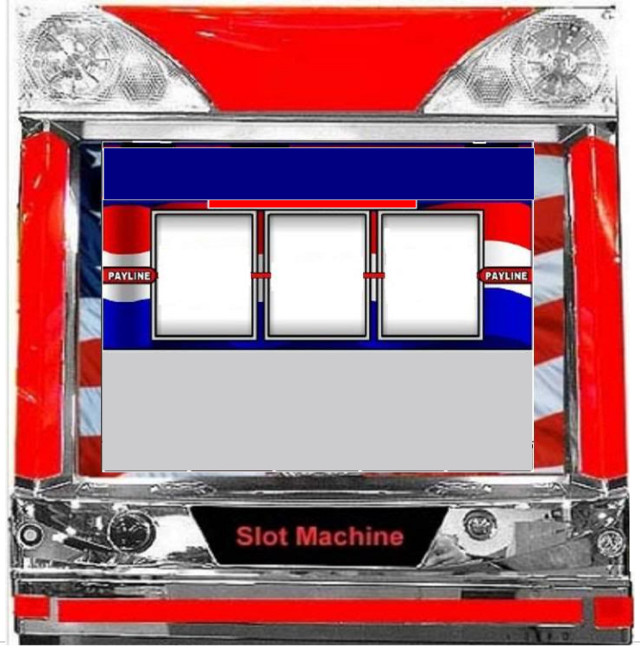
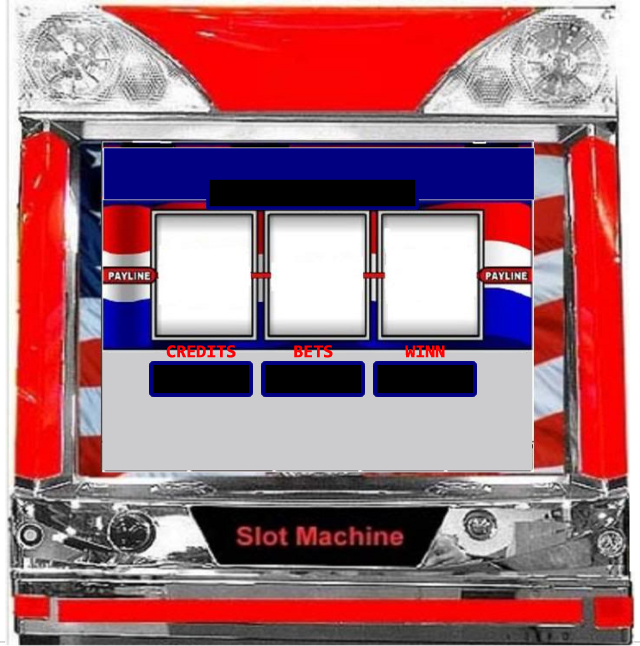
Added the score labels

diff --git a/Scripts/scenes/gameScene.ts b/Scripts/scenes/gameScene.ts
@@ -10,6 +10,15 @@ module scenes {
         private _bet100: objects.Button;
         private _spin: objects.Button;
         private _reels: createjs.Bitmap[];
+        private _jackpotText: objects.Label;
+        private _creditsText: objects.Label;
+        private _betText: objects.Label;
+        private _resultText: objects.Label;
+        private playerMoney: number;
+        private winnings: number;
+        private jackpot: number;
+        private playerBet: number;
+
 
         private _apple = 0;
         private _banana = 0;
@@ -25,6 +34,9 @@ module scenes {
         }
 
         public start(): void {
+
+            this._resetAll();
+
             this._level1Image = new createjs.Bitmap(assets.getResult("SlotMachine"));
             this.addChild(this._level1Image);
             
@@ -50,6 +62,42 @@ module scenes {
             this.addChild(this._spin);
             this._spin.on("click", this._spinButtonClick, this);
             
+            // add JackPot Text to the scene
+            this._jackpotText = new objects.Label(
+                this.jackpot.toString(),
+                "27px Consolas",
+                "#FFFFFF",
+                330, 184, false);
+            this._jackpotText.textAlign = "right";
+            this.addChild(this._jackpotText);
+        
+            // add Credits Text to the scene
+            this._creditsText = new objects.Label(
+                this.playerMoney.toString(),
+                "27px Consolas",
+                "#FFFFFF",
+                220, 369, false);
+            this._creditsText.textAlign = "right";
+            this.addChild(this._creditsText);
+            
+            // add Bet Text to the scene
+            this._betText = new objects.Label(
+                this.playerBet.toString(),
+                "27px Consolas",
+                "#FFFFFF",
+                320, 369, false);
+            this._betText.textAlign = "right";
+            this.addChild(this._betText);
+            
+            // add Result Text to the scene
+            this._resultText = new objects.Label(
+                this.winnings.toString(),
+                "27px Consolas",
+                "#FFFFFF",
+                433, 369, false);
+            this._resultText.textAlign = "right";
+            this.addChild(this._resultText);
+            
             // Call the Initialize Array of Bitmaps 
             this._initializeBitmapArray();
 
@@ -67,6 +115,14 @@ module scenes {
         /* Utility function to check if a value falls within a range of bounds */
         private _checkRange(value: number, lowerBounds: number, upperBounds: number): number {
             return (value >= lowerBounds && value <= upperBounds) ? value : -1;
+        }
+        
+        // Resets the Bet, Credits, Jackpots and Winning
+        private _resetAll() {
+            this.playerMoney = 1000;
+            this.winnings = 0;
+            this.jackpot = 5000;
+            this.playerBet = 0;
         }
         
         /* When this function is called it determines the betLine results.
@@ -127,6 +183,17 @@ module scenes {
             }
         }
         
+        // Set the Bet for the player
+        private _playerBet(playerBet: number) {
+            // ensure player's bet is less than or equal to players money
+            if (playerBet <= this.playerMoney) {
+                this.playerBet += playerBet;
+                this.playerMoney -= playerBet;
+                this._creditsText.text = this.playerMoney.toString();
+                this._betText.text = this.playerBet.toString();
+            }
+        }
+        
         // Handuler Methods
         
         // Bet1 Button click Handuler
@@ -134,30 +201,35 @@ module scenes {
             // Change the scenes
             // scene = config.Scene.LEVEL21;
             // changeScene();
+            this._playerBet(1);
         }
         
         // Bet10 button click Handuler
         private _bet10ButtonClick(event: createjs.MouseEvent): void {
-            // Change the Scene
-            // scene = config.Scene.LEVEL22;
-            // changeScene();
+
+            this._playerBet(10);
         }
 
         // Bet100 Button click Handuler
         private _bet100ButtonClick(event: createjs.MouseEvent): void {
-            // Change to Menu Scene
-            scene = config.Scene.MENU;
-            console.log("Change to menu scene");
-            changeScene();
+
+            this._playerBet(100);
         }
         
         // Spin Button click Handuler
         private _spinButtonClick(event: createjs.MouseEvent): void {
+            
+            // Spins only if the player has credits
+            if (this.playerBet > 0) {
+                var bitmap: string[] = this._spinReels();
 
-            var bitmap: string[] = this._spinReels();
-
-            for (var reel: number = 0; reel < 3; reel++) {
-                this._reels[reel].image = assets.getResult(bitmap[reel]);
+                for (var reel: number = 0; reel < 3; reel++) {
+                    this._reels[reel].image = assets.getResult(bitmap[reel]);
+                }
+            
+                // reset player's bet to zero
+                this.playerBet = 0;
+                this._betText.text = this.playerBet.toString()
             }
         }
 

diff --git a/Scripts/scenes/gameScene.js b/Scripts/scenes/gameScene.js
@@ -20,6 +20,7 @@ var scenes;
             this._blanks = 0;
         }
         GameScene.prototype.start = function () {
+            this._resetAll();
             this._level1Image = new createjs.Bitmap(assets.getResult("SlotMachine"));
             this.addChild(this._level1Image);
             // added the Bet1 button
@@ -38,6 +39,22 @@ var scenes;
             this._spin = new objects.Button("spin", 442, 400, false);
             this.addChild(this._spin);
             this._spin.on("click", this._spinButtonClick, this);
+            // add JackPot Text to the scene
+            this._jackpotText = new objects.Label(this.jackpot.toString(), "27px Consolas", "#FFFFFF", 330, 184, false);
+            this._jackpotText.textAlign = "right";
+            this.addChild(this._jackpotText);
+            // add Credits Text to the scene
+            this._creditsText = new objects.Label(this.playerMoney.toString(), "27px Consolas", "#FFFFFF", 220, 369, false);
+            this._creditsText.textAlign = "right";
+            this.addChild(this._creditsText);
+            // add Bet Text to the scene
+            this._betText = new objects.Label(this.playerBet.toString(), "27px Consolas", "#FFFFFF", 320, 369, false);
+            this._betText.textAlign = "right";
+            this.addChild(this._betText);
+            // add Result Text to the scene
+            this._resultText = new objects.Label(this.winnings.toString(), "27px Consolas", "#FFFFFF", 433, 369, false);
+            this._resultText.textAlign = "right";
+            this.addChild(this._resultText);
             // Call the Initialize Array of Bitmaps 
             this._initializeBitmapArray();
             stage.addChild(this);
@@ -48,6 +65,13 @@ var scenes;
         /* Utility function to check if a value falls within a range of bounds */
         GameScene.prototype._checkRange = function (value, lowerBounds, upperBounds) {
             return (value >= lowerBounds && value <= upperBounds) ? value : -1;
+        };
+        // Resets the Bet, Credits, Jackpots and Winning
+        GameScene.prototype._resetAll = function () {
+            this.playerMoney = 1000;
+            this.winnings = 0;
+            this.jackpot = 5000;
+            this.playerBet = 0;
         };
         /* When this function is called it determines the betLine results.
         e.g. Bar - Orange - Banana */
@@ -104,33 +128,44 @@ var scenes;
                 console.log("reel" + reel + " " + this._reels[reel]);
             }
         };
+        // Set the Bet for the player
+        GameScene.prototype._playerBet = function (playerBet) {
+            // ensure player's bet is less than or equal to players money
+            if (playerBet <= this.playerMoney) {
+                this.playerBet += playerBet;
+                this.playerMoney -= playerBet;
+                this._creditsText.text = this.playerMoney.toString();
+                this._betText.text = this.playerBet.toString();
+            }
+        };
         // Handuler Methods
         // Bet1 Button click Handuler
         GameScene.prototype._bet1ButtonClick = function (event) {
             // Change the scenes
             // scene = config.Scene.LEVEL21;
             // changeScene();
+            this._playerBet(1);
         };
         // Bet10 button click Handuler
         GameScene.prototype._bet10ButtonClick = function (event) {
-            // Change the Scene
-            // scene = config.Scene.LEVEL22;
-            // changeScene();
+            this._playerBet(10);
         };
         // Bet100 Button click Handuler
         GameScene.prototype._bet100ButtonClick = function (event) {
-            // Change to Menu Scene
-            scene = config.Scene.MENU;
-            console.log("Change to menu scene");
-            changeScene();
+            this._playerBet(100);
         };
         // Spin Button click Handuler
         GameScene.prototype._spinButtonClick = function (event) {
-            var bitmap = this._spinReels();
-            for (var reel = 0; reel < 3; reel++) {
-                this._reels[reel].image = assets.getResult(bitmap[reel]);
+            // Spins only if the player has credits
+            if (this.playerBet > 0) {
+                var bitmap = this._spinReels();
+                for (var reel = 0; reel < 3; reel++) {
+                    this._reels[reel].image = assets.getResult(bitmap[reel]);
+                }
+                // reset player's bet to zero
+                this.playerBet = 0;
+                this._betText.text = this.playerBet.toString();
             }
-            console.log(this._reels[reel].image);
         };
         return GameScene;
     })(objects.Scene);

diff --git a/Scripts/objects/label.ts b/Scripts/objects/label.ts
@@ -2,10 +2,13 @@
     // LABEL CLASS ++++++++++++++++++++++++++++++++++++++++++++++
     export class Label extends createjs.Text {
         // CONSTRUCTOR METHOD +++++++++++++++++++++++++++++++++++
-        constructor(labelString: string, labelFont: string, labelColour: string, x: number, y: number) {
+        constructor(labelString: string, labelFont: string, labelColour: string, x: number, y: number, isCentered: boolean) {
             super(labelString, labelFont, labelColour);
-            this.regX = this.getBounds().width * 0.5;
-            this.regY = this.getBounds().height * 0.5;
+            
+            if (isCentered) {
+                this.regX = this.getBounds().width * 0.5;
+                this.regY = this.getBounds().height * 0.5;
+            }
             this.x = x;
             this.y = y;
         }

diff --git a/Scripts/objects/label.js b/Scripts/objects/label.js
@@ -9,10 +9,12 @@ var objects;
     var Label = (function (_super) {
         __extends(Label, _super);
         // CONSTRUCTOR METHOD +++++++++++++++++++++++++++++++++++
-        function Label(labelString, labelFont, labelColour, x, y) {
+        function Label(labelString, labelFont, labelColour, x, y, isCentered) {
             _super.call(this, labelString, labelFont, labelColour);
-            this.regX = this.getBounds().width * 0.5;
-            this.regY = this.getBounds().height * 0.5;
+            if (isCentered) {
+                this.regX = this.getBounds().width * 0.5;
+                this.regY = this.getBounds().height * 0.5;
+            }
             this.x = x;
             this.y = y;
         }
